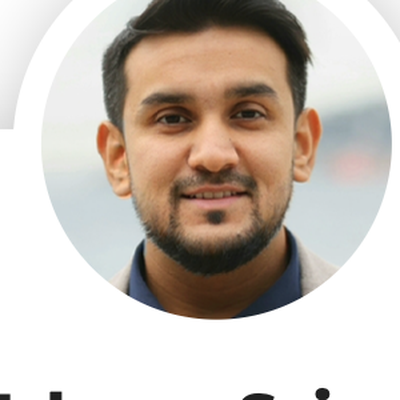
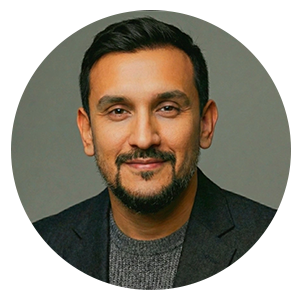
Add chapter illustrations + real headshots to Rewarded Playtime ebook
Faheem supplied photos organized by section. Placement:
- 3 quote headshots replaced with proper circular cutouts (Mert Simsek, Peggy Anne Salz, Faheem Saiyad), upgrading the rough doc-crops.
- 7 chapter hero illustrations (3D renders, transparent bg) added to each chapter header as a 2-column layout (text left, art right; stacks centered on mobile via the existing .ch-head .wrap rule). Compressed 3.4MB of source PNGs to 524KB of WebP.
- New social/OG image (1200x600 branded icon banner) replaces the generic hero-bg.png in the page's OG + Twitter + JSON-LD.
tsc + eslint clean; verified 2-col desktop + stacked mobile, no overflow, all images load.

diff --git a/src/components/ebooks/RewardedPlaytimeContent.tsx b/src/components/ebooks/RewardedPlaytimeContent.tsx
@@ -185,12 +185,15 @@ export default function RewardedPlaytimeContent({ initialUnlocked }: RewardedPla
       {/* ───────────────────────── CH 1: INTRODUCTION ───────────────────────── */}
       <hr className="divider purple" />
       <section className="ch-head ch-purple" id="rp-ch1">
-        <div className="wrap rv ch-enter-right" style={{ position: 'relative' }}>
+        <div className="wrap rv ch-enter-right ch-head-art" style={{ position: 'relative' }}>
           <span className="ch-bg-num">01</span>
-          <div className="ch-num" style={{ color: 'var(--purple)' }}>1.0</div>
-          <h2>The Mobile Gaming Landscape &amp; Rewarded Playtime</h2>
-          <p style={{ fontSize: '.85rem', color: 'rgba(175,156,255,.8)', fontWeight: 500, marginTop: '4px', fontStyle: 'italic' }}>From experimental tactic to foundational cornerstone</p>
-          <div className="ch-desc">Once treated as an experimental tactic, rewarded playtime has matured into a proven cornerstone of mobile user acquisition and retention. It runs on a simple psychological lever (positive reinforcement) that keeps players engaged in order to earn more.</div>
+          <div className="ch-head-copy">
+            <div className="ch-num" style={{ color: 'var(--purple)' }}>1.0</div>
+            <h2>The Mobile Gaming Landscape &amp; Rewarded Playtime</h2>
+            <p style={{ fontSize: '.85rem', color: 'rgba(175,156,255,.8)', fontWeight: 500, marginTop: '4px', fontStyle: 'italic' }}>From experimental tactic to foundational cornerstone</p>
+            <div className="ch-desc">Once treated as an experimental tactic, rewarded playtime has matured into a proven cornerstone of mobile user acquisition and retention. It runs on a simple psychological lever (positive reinforcement) that keeps players engaged in order to earn more.</div>
+          </div>
+          <img className="ch-head-img" src="/images/rp/ch1.webp" alt="Rewarded playtime in a merge-style mobile game with floating coin rewards" loading="lazy" width="880" height="880" />
         </div>
       </section>
 
@@ -253,12 +256,15 @@ export default function RewardedPlaytimeContent({ initialUnlocked }: RewardedPla
       {/* ───────────────────────── CH 2: HOW IT WORKS ───────────────────────── */}
       <hr className="divider green" />
       <section className="ch-head ch-green" id="rp-ch2">
-        <div className="wrap rv ch-enter-scale" style={{ position: 'relative' }}>
+        <div className="wrap rv ch-enter-scale ch-head-art" style={{ position: 'relative' }}>
           <span className="ch-bg-num">02</span>
-          <div className="ch-num" style={{ color: 'var(--green)' }}>2.0</div>
-          <h2>Rewarded Playtime: How It Works</h2>
-          <p style={{ fontSize: '.85rem', color: 'var(--text-muted)', fontWeight: 500, marginTop: '4px', fontStyle: 'italic' }}>The dual-value loop</p>
-          <div className="ch-desc">Rewarded playtime runs on a transparent value exchange: players receive a dual-value loop of real-world monetary rewards <em>and</em> premium in-game incentives, both scaled to the time and engagement they choose to give a game.</div>
+          <div className="ch-head-copy">
+            <div className="ch-num" style={{ color: 'var(--green)' }}>2.0</div>
+            <h2>Rewarded Playtime: How It Works</h2>
+            <p style={{ fontSize: '.85rem', color: 'var(--text-muted)', fontWeight: 500, marginTop: '4px', fontStyle: 'italic' }}>The dual-value loop</p>
+            <div className="ch-desc">Rewarded playtime runs on a transparent value exchange: players receive a dual-value loop of real-world monetary rewards <em>and</em> premium in-game incentives, both scaled to the time and engagement they choose to give a game.</div>
+          </div>
+          <img className="ch-head-img" src="/images/rp/ch2.webp" alt="The AppsPrize rewarded playtime offerwall showing daily quests and cashback rewards" loading="lazy" width="880" height="880" />
         </div>
       </section>
 
@@ -377,12 +383,15 @@ export default function RewardedPlaytimeContent({ initialUnlocked }: RewardedPla
       {/* ───────────────────────── CH 3: GENRE LANDSCAPE ───────────────────────── */}
       <hr className="divider yellow" />
       <section className="ch-head" id="rp-ch3" style={{ borderTop: '4px solid var(--yellow)' }}>
-        <div className="wrap rv ch-enter-left" style={{ position: 'relative' }}>
+        <div className="wrap rv ch-enter-left ch-head-art" style={{ position: 'relative' }}>
           <span className="ch-bg-num">03</span>
-          <div className="ch-num" style={{ color: 'var(--yellow)' }}>3.0</div>
-          <h2>Genre-Specific Landscape &amp; Monetization Dynamics</h2>
-          <p style={{ fontSize: '.85rem', color: 'var(--text-muted)', fontWeight: 500, marginTop: '4px', fontStyle: 'italic' }}>Where rewarded playtime fits each genre</p>
-          <div className="ch-desc">The market has moved well past one-size-fits-all monetization. Today&rsquo;s games run complex, genre-specific hybrid models, and knowing how each genre earns is essential to deploying rewarded playtime as an acquisition and retention tool.</div>
+          <div className="ch-head-copy">
+            <div className="ch-num" style={{ color: 'var(--yellow)' }}>3.0</div>
+            <h2>Genre-Specific Landscape &amp; Monetization Dynamics</h2>
+            <p style={{ fontSize: '.85rem', color: 'var(--text-muted)', fontWeight: 500, marginTop: '4px', fontStyle: 'italic' }}>Where rewarded playtime fits each genre</p>
+            <div className="ch-desc">The market has moved well past one-size-fits-all monetization. Today&rsquo;s games run complex, genre-specific hybrid models, and knowing how each genre earns is essential to deploying rewarded playtime as an acquisition and retention tool.</div>
+          </div>
+          <img className="ch-head-img" src="/images/rp/ch3.webp" alt="Popular casual, hybrid-casual, and mid-core mobile game icons" loading="lazy" width="880" height="880" />
         </div>
       </section>
 
@@ -451,12 +460,15 @@ export default function RewardedPlaytimeContent({ initialUnlocked }: RewardedPla
       {/* ───────────────────────── CH 4: REGIONAL LANDSCAPE ───────────────────────── */}
       <hr className="divider cyan" />
       <section className="ch-head" id="rp-ch4" style={{ borderTop: '4px solid var(--cyan)' }}>
-        <div className="wrap rv ch-enter-bottom" style={{ position: 'relative' }}>
+        <div className="wrap rv ch-enter-bottom ch-head-art" style={{ position: 'relative' }}>
           <span className="ch-bg-num">04</span>
-          <div className="ch-num" style={{ color: 'var(--cyan-d)' }}>4.0</div>
-          <h2>Regional Landscape: Global Monetization &amp; Reward Behaviors</h2>
-          <p style={{ fontSize: '.85rem', color: 'var(--text-muted)', fontWeight: 500, marginTop: '4px', fontStyle: 'italic' }}>Five markets, five very different playbooks</p>
-          <div className="ch-desc">Global downloads slipped 7% year over year to 50 billion in 2025, even as total in-app purchase revenue held steady at $82 billion. With volume softening, publishers are designing region-specific loops to capture higher LTV, and user-initiated formats like rewarded playtime and paid access to accumulated rewards have become a foundational way to offset rising ROAS friction.</div>
+          <div className="ch-head-copy">
+            <div className="ch-num" style={{ color: 'var(--cyan-d)' }}>4.0</div>
+            <h2>Regional Landscape: Global Monetization &amp; Reward Behaviors</h2>
+            <p style={{ fontSize: '.85rem', color: 'var(--text-muted)', fontWeight: 500, marginTop: '4px', fontStyle: 'italic' }}>Five markets, five very different playbooks</p>
+            <div className="ch-desc">Global downloads slipped 7% year over year to 50 billion in 2025, even as total in-app purchase revenue held steady at $82 billion. With volume softening, publishers are designing region-specific loops to capture higher LTV, and user-initiated formats like rewarded playtime and paid access to accumulated rewards have become a foundational way to offset rising ROAS friction.</div>
+          </div>
+          <img className="ch-head-img" src="/images/rp/ch4.webp" alt="Global mobile game monetization and reward behavior across regions" loading="lazy" width="880" height="880" />
         </div>
       </section>
 
@@ -640,12 +652,15 @@ export default function RewardedPlaytimeContent({ initialUnlocked }: RewardedPla
         {/* ───────────────────────── CH 5: TRENDS & IAPs ───────────────────────── */}
         <hr className="divider purple" />
         <section className="ch-head ch-purple" id="rp-ch5">
-          <div className="wrap rv ch-enter-right" style={{ position: 'relative' }}>
+          <div className="wrap rv ch-enter-right ch-head-art" style={{ position: 'relative' }}>
             <span className="ch-bg-num">05</span>
-            <div className="ch-num" style={{ color: 'var(--purple)' }}>5.0</div>
-            <h2>Mobile Gaming Trends &amp; Rewarded Playtime</h2>
-            <p style={{ fontSize: '.85rem', color: 'rgba(175,156,255,.8)', fontWeight: 500, marginTop: '4px', fontStyle: 'italic' }}>The rising importance of in-app purchases</p>
-            <div className="ch-desc">The market has officially shifted from chasing install volume to maximizing player value. With downloads softening, monetization now depends on capturing higher-value players who stay longer and spend more, which is why developers are prioritizing hybrid models that blend advertising, subscriptions, and IAPs without disrupting the experience.</div>
+            <div className="ch-head-copy">
+              <div className="ch-num" style={{ color: 'var(--purple)' }}>5.0</div>
+              <h2>Mobile Gaming Trends &amp; Rewarded Playtime</h2>
+              <p style={{ fontSize: '.85rem', color: 'rgba(175,156,255,.8)', fontWeight: 500, marginTop: '4px', fontStyle: 'italic' }}>The rising importance of in-app purchases</p>
+              <div className="ch-desc">The market has officially shifted from chasing install volume to maximizing player value. With downloads softening, monetization now depends on capturing higher-value players who stay longer and spend more, which is why developers are prioritizing hybrid models that blend advertising, subscriptions, and IAPs without disrupting the experience.</div>
+            </div>
+            <img className="ch-head-img" src="/images/rp/ch5.webp" alt="Mobile game analytics dashboard showing revenue and engagement trends" loading="lazy" width="657" height="880" />
           </div>
         </section>
 
@@ -741,12 +756,15 @@ export default function RewardedPlaytimeContent({ initialUnlocked }: RewardedPla
         {/* ───────────────────────── CH 6: BEST PRACTICES ───────────────────────── */}
         <hr className="divider yellow" />
         <section className="ch-head" id="rp-ch6" style={{ borderTop: '4px solid var(--yellow)' }}>
-          <div className="wrap rv ch-enter-left" style={{ position: 'relative' }}>
+          <div className="wrap rv ch-enter-left ch-head-art" style={{ position: 'relative' }}>
             <span className="ch-bg-num">06</span>
-            <div className="ch-num" style={{ color: 'var(--yellow)' }}>6.0</div>
-            <h2>Best Practices &amp; Campaign Strategy</h2>
-            <p style={{ fontSize: '.85rem', color: 'var(--text-muted)', fontWeight: 500, marginTop: '4px', fontStyle: 'italic' }}>Designing rewarded playtime experiences</p>
-            <div className="ch-desc">A rewarded playtime campaign that performs needs three things: a reward experience designed around the player, clear goals, and continuous optimization of reward types, segments, and competitive positioning.</div>
+            <div className="ch-head-copy">
+              <div className="ch-num" style={{ color: 'var(--yellow)' }}>6.0</div>
+              <h2>Best Practices &amp; Campaign Strategy</h2>
+              <p style={{ fontSize: '.85rem', color: 'var(--text-muted)', fontWeight: 500, marginTop: '4px', fontStyle: 'italic' }}>Designing rewarded playtime experiences</p>
+              <div className="ch-desc">A rewarded playtime campaign that performs needs three things: a reward experience designed around the player, clear goals, and continuous optimization of reward types, segments, and competitive positioning.</div>
+            </div>
+            <img className="ch-head-img" src="/images/rp/ch6.webp" alt="AppsPrize onboarding screen: start earning every minute you play" loading="lazy" width="880" height="880" />
           </div>
         </section>
 
@@ -798,12 +816,15 @@ export default function RewardedPlaytimeContent({ initialUnlocked }: RewardedPla
         {/* ───────────────────────── CH 7: KPIs ───────────────────────── */}
         <hr className="divider green" />
         <section className="ch-head ch-green" id="rp-ch7">
-          <div className="wrap rv ch-enter-right" style={{ position: 'relative' }}>
+          <div className="wrap rv ch-enter-right ch-head-art" style={{ position: 'relative' }}>
             <span className="ch-bg-num">07</span>
-            <div className="ch-num" style={{ color: 'var(--green)' }}>7.0</div>
-            <h2>Measuring &amp; Analyzing Performance</h2>
-            <p style={{ fontSize: '.85rem', color: 'var(--text-muted)', fontWeight: 500, marginTop: '4px', fontStyle: 'italic' }}>The five KPIs that matter</p>
-            <div className="ch-desc">Refining a rewarded playtime strategy means watching the right metrics continuously and acting on campaign data. Five KPIs reveal how players behave and whether a campaign is paying off. Together they tell you what to optimize next.</div>
+            <div className="ch-head-copy">
+              <div className="ch-num" style={{ color: 'var(--green)' }}>7.0</div>
+              <h2>Measuring &amp; Analyzing Performance</h2>
+              <p style={{ fontSize: '.85rem', color: 'var(--text-muted)', fontWeight: 500, marginTop: '4px', fontStyle: 'italic' }}>The five KPIs that matter</p>
+              <div className="ch-desc">Refining a rewarded playtime strategy means watching the right metrics continuously and acting on campaign data. Five KPIs reveal how players behave and whether a campaign is paying off. Together they tell you what to optimize next.</div>
+            </div>
+            <img className="ch-head-img" src="/images/rp/ch7.webp" alt="Rewarded playtime performance metrics: eCPM, CTR, retention, and ARPDAU" loading="lazy" width="880" height="880" />
           </div>
         </section>
 

diff --git a/src/app/rewarded-playtime/layout.tsx b/src/app/rewarded-playtime/layout.tsx
@@ -20,9 +20,9 @@ export const metadata: Metadata = {
     authors: ['AppSamurai'],
     images: [
       {
-        url: '/hero-bg.png',
+        url: '/rewarded-playtime-og.png',
         width: 1200,
-        height: 630,
+        height: 600,
         alt: 'Rewarded Playtime in Mobile Gaming: AppSamurai Handbook',
       },
     ],
@@ -31,7 +31,7 @@ export const metadata: Metadata = {
     card: 'summary_large_image',
     title: 'Rewarded Playtime Handbook | AppSamurai',
     description: 'The complete guide to rewarded playtime for mobile game publishers.',
-    images: ['/hero-bg.png'],
+    images: ['/rewarded-playtime-og.png'],
   },
 };
 
@@ -50,7 +50,7 @@ const structuredData = {
   dateModified: '2026-06-03',
   description:
     'Complete 2025 handbook on rewarded playtime in mobile gaming: the dual-value model, genre-specific monetization, regional landscape across the US, South Korea, Japan, Brazil and Europe, campaign strategy, and KPI measurement.',
-  image: `${BASE_URL}${basePath}/hero-bg.png`,
+  image: `${BASE_URL}${basePath}/rewarded-playtime-og.png`,
   mainEntityOfPage: { '@type': 'WebPage', '@id': `${BASE_URL}${basePath}/rewarded-playtime` },
   articleSection: ['Rewarded Playtime', 'Mobile Gaming', 'Regional Monetization', 'Campaign Strategy', 'KPIs'],
   keywords: 'rewarded playtime, offerwall ads, mobile game monetization 2025, play to earn mobile games, rewarded ads mobile gaming, casual game user acquisition, hybrid-casual monetization, in-app purchase optimization, player retention strategies, ARPDAU optimization, mobile game KPIs, South Korea mobile gaming, Japan mobile gaming RPG, Brazil mobile ad monetization, Europe mobile IAP',

diff --git a/src/styles/globals.css b/src/styles/globals.css
@@ -179,6 +179,10 @@ img{max-width:100%;display:block}a{text-decoration:none;color:inherit}
 .ch-head h2{font-family:var(--font-h);font-size:clamp(1.5rem,3vw,2.2rem);font-weight:var(--fw-bold);line-height:1.12;margin-bottom:12px;letter-spacing:-.02em;color:var(--text)}
 .ch-desc{font-size:.95rem;max-width:640px;line-height:1.75;color:var(--text-muted);font-weight:var(--fw-regular)}
 .ch-bg-num{position:absolute;right:-3%;top:50%;transform:translateY(-50%);font-family:var(--font-h);font-size:clamp(10rem,18vw,16rem);font-weight:700;color:rgba(0,0,0,.03);line-height:1;pointer-events:none;user-select:none}
+/* Chapter header with illustration: text left, art right (collapses on mobile via the .ch-head .wrap rule below) */
+.ch-head-art{display:grid;grid-template-columns:1fr minmax(0,300px);gap:36px;align-items:center}
+.ch-head-art .ch-bg-num{display:none}
+.ch-head-img{width:100%;max-width:300px;height:auto;justify-self:end;filter:drop-shadow(0 18px 36px rgba(50,50,93,.16))}
 @media(max-width:768px){.ch-head .wrap{grid-template-columns:1fr!important}.ch-head .wrap img{max-width:200px!important;margin:16px auto 0}}
 
 /* === SECTIONS === */